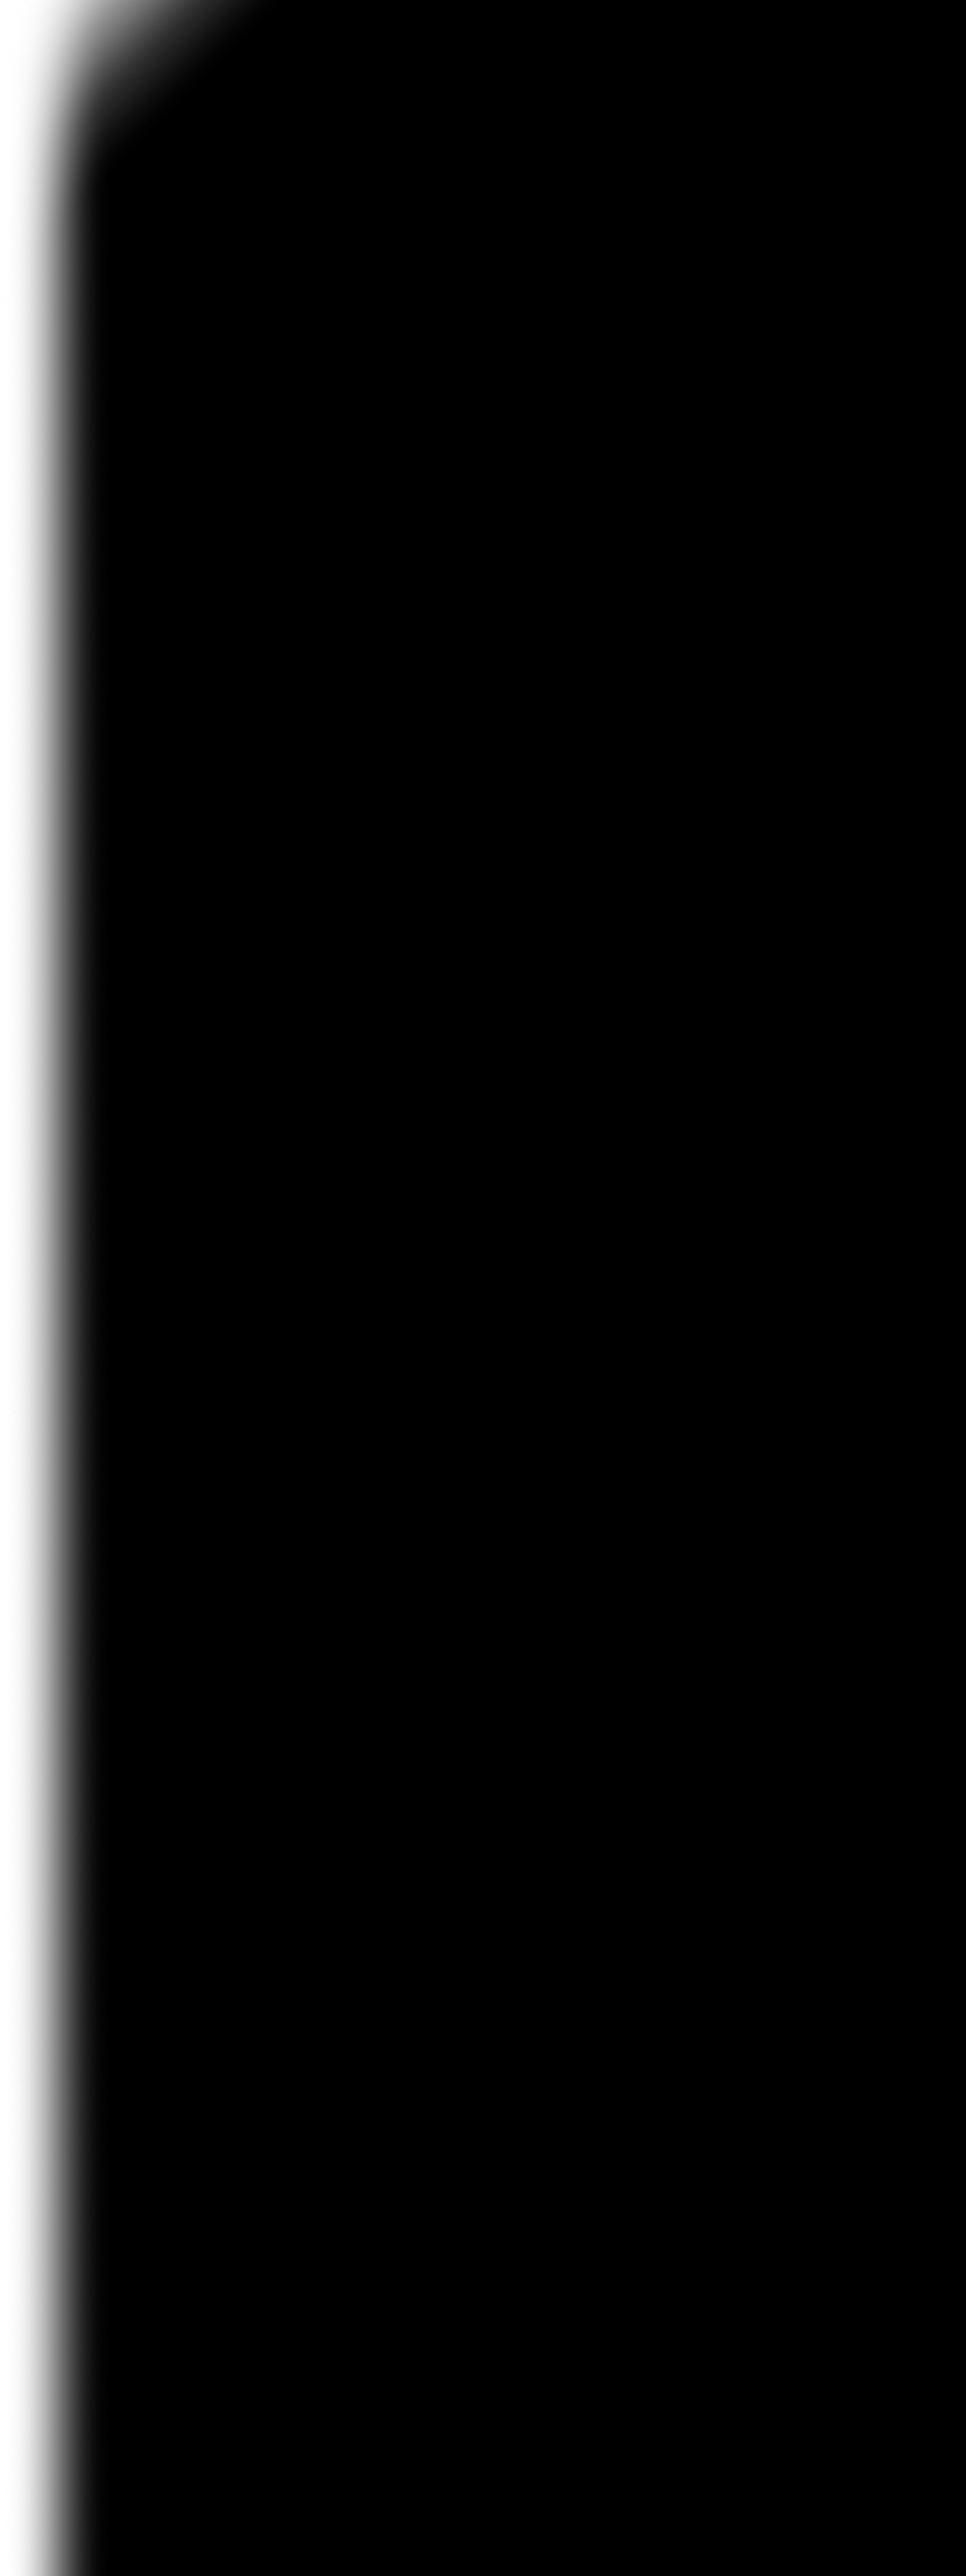
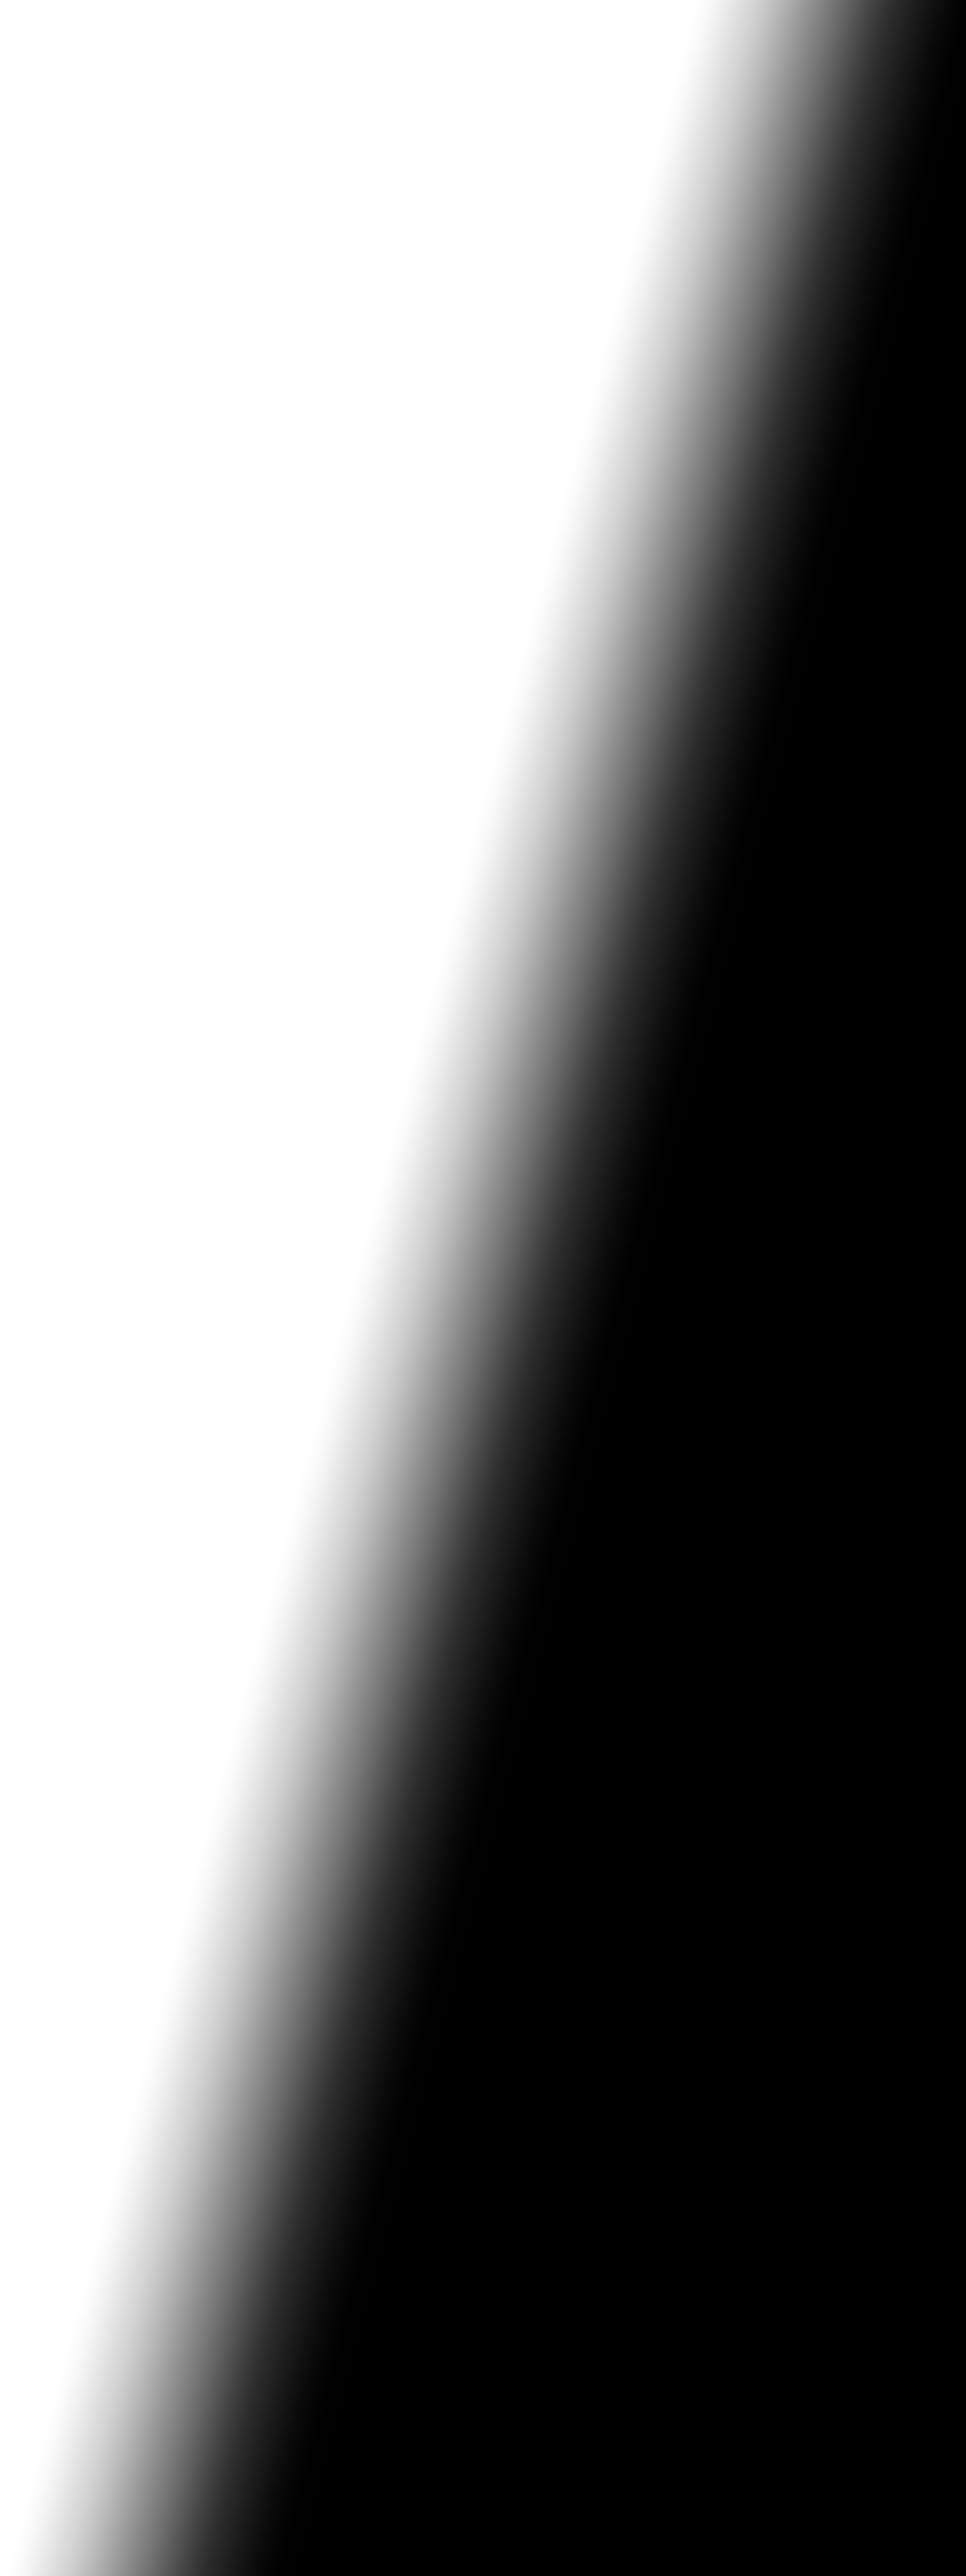
fade changes

diff --git a/app/globals.css b/app/globals.css
@@ -72,7 +72,7 @@
   --bar-label: var(--ink);
   --bar-strength: 1;
   --wave-unit: 1vw;
-  --wave-duration: 95s;
+  --wave-duration: 92s;
   --wave-delay: -4.787549407s;
   --serif: "Iowan Old Style", "Palatino Linotype", Palatino, Georgia, serif;
   --sans: -apple-system, BlinkMacSystemFont, "Segoe UI", Helvetica, Arial, sans-serif;
@@ -134,7 +134,7 @@ p, h1, h2, h3 { margin: 0; }
   :root[data-color-wave="ready"] .site-footer::before {
     /* One shared curve: a desktop 51vw center plus two 51vw fades, scaled on smaller screens.
        Each fade uses 64 intervals instead of coarse, rounded color stops. */
-    --wave-paint: linear-gradient(135deg in oklab,
+    --wave-paint: linear-gradient(105deg in oklab,
       var(--wave-base) calc(var(--wave-x) - var(--wave-origin, 0px) - 76.5 * var(--wave-unit)),
       color-mix(in oklab, var(--accent-surface) 0.003726%, var(--wave-base)) calc(var(--wave-x) - var(--wave-origin, 0px) - 75.703125 * var(--wave-unit)),
       color-mix(in oklab, var(--accent-surface) 0.029105%, var(--wave-base)) calc(var(--wave-x) - var(--wave-origin, 0px) - 74.90625 * var(--wave-unit)),
@@ -275,7 +275,7 @@ p, h1, h2, h3 { margin: 0; }
   @supports (background-clip: text) or (-webkit-background-clip: text) {
     :root[data-color-wave="ready"] :is(.disclosure-toggle .section-label, .site-footer p, .language-switch) {
       /* Inverse text switches at a contrast threshold, avoiding gray-on-gray. */
-      --inverse-paint: linear-gradient(135deg,
+      --inverse-paint: linear-gradient(105deg,
         var(--ink) calc(var(--wave-x) - var(--wave-origin) - 50.2 * var(--wave-unit)),
         var(--paper) 0 calc(var(--wave-x) - var(--wave-origin) + 50.2 * var(--wave-unit)),
         var(--ink) 0);
@@ -312,7 +312,7 @@ p, h1, h2, h3 { margin: 0; }
 .site-nav a:hover { color: var(--accent); text-decoration: underline; text-underline-offset: 9px; }
 .intro { padding: 96px 0 80px 192px; }
 .home-intro { position: relative; isolation: isolate; }
-.hero-art { position: absolute; top: 0; bottom: 0; right: -56px; width: 54%; pointer-events: none; clip-path: inset(0 4% 0 0); transform: translateY(-20px); mask-image: url("./masks/photo-desktop.png"); mask-size: 100% auto; mask-position: left top; mask-repeat: no-repeat; }
+.hero-art { --photo-fade-midpoint: .3954821253; position: absolute; top: 0; bottom: 0; right: -56px; width: 54%; pointer-events: none; clip-path: inset(0 4% 0 0); transform: translateY(-20px); mask-image: url("./masks/photo-desktop.png"); mask-size: 100% auto; mask-position: left bottom; mask-repeat: no-repeat; }
 .hero-photo { display: block; width: 100%; height: 100%; object-fit: cover; object-position: 52% 48%; filter: saturate(.9) contrast(.98); opacity: .86; }
 .hero-heading, .hero-content { position: relative; z-index: 1; max-width: 560px; }
 .eyebrow, .section-label { font-family: var(--sans); font-size: var(--type-small); font-weight: 500; line-height: 1.6; letter-spacing: 0; }
@@ -412,14 +412,14 @@ html:lang(zh) .news-story h3:not([lang="en"]) { line-height: 1.4; letter-spacing
 }
 /* Tablet widths, plus larger touch-first tablets in landscape. */
 @media screen and (min-width: 541px) and (max-width: 1099px), screen and (min-width: 1100px) and (max-width: 1400px) and (hover: none) and (pointer: coarse) {
-  html { --wave-unit: .9vw; --wave-duration: 89s; --wave-delay: -4.296487169s; }
+  html { --wave-unit: .9vw; --wave-duration: 86s; --wave-delay: -4.296487169s; }
   html { --header-height: 72px; --type-title: clamp(48px, 5.5vw, 64px); }
   .site-shell { width: calc(100% - clamp(64px, 8vw, 96px)); }
   .site-header, .editorial-section, .site-footer { margin-right: 0; }
   .intro { padding: 48px 0; }
   .home-intro { display: grid; grid-template-columns: minmax(0, 1fr) minmax(0, .85fr); gap: 32px; align-items: center; }
   .hero-heading { grid-column: 1; grid-row: 1; max-width: none; }
-  .hero-art { position: relative; grid-column: 2; grid-row: 1; inset: auto; right: calc(0px - clamp(32px, 4vw, 48px)); width: 100%; height: 340px; margin: 0; clip-path: none; transform: none; mask-image: url("./masks/photo-tablet.png"); mask-size: 100% auto; mask-repeat: no-repeat; }
+  .hero-art { --photo-fade-midpoint: .14; position: relative; grid-column: 2; grid-row: 1; inset: auto; right: calc(0px - clamp(32px, 4vw, 48px)); width: 100%; height: 340px; margin: 0; clip-path: none; transform: none; mask-image: url("./masks/photo-tablet.png"); mask-size: 100% auto; mask-repeat: no-repeat; }
   .hero-photo { object-position: 50% 46%; opacity: .9; }
   .hero-content { grid-column: 1 / -1; grid-row: 2; width: 100%; max-width: 688px; }
   .home-intro .intro-copy { max-width: none; margin-top: 0; }
@@ -439,7 +439,7 @@ html:lang(zh) .news-story h3:not([lang="en"]) { line-height: 1.4; letter-spacing
   .hero-art { height: 320px; }
 }
 @media (max-width: 540px) {
-  html { --wave-unit: .75vw; --wave-duration: 80s; --wave-delay: -3.562281723s; }
+  html { --wave-unit: .75vw; --wave-duration: 77s; --wave-delay: -3.562281723s; }
   .site-shell { width: calc(100% - 40px); }
   .site-header, .editorial-section, .site-footer { margin-right: 0; }
   html { --header-height: 64px; }
@@ -447,7 +447,7 @@ html:lang(zh) .news-story h3:not([lang="en"]) { line-height: 1.4; letter-spacing
   .site-nav { gap: 20px; }
   .intro { padding: 48px 0; }
   .home-intro { padding-top: 32px; padding-left: 0; }
-  .hero-art { position: relative; top: auto; bottom: auto; left: -20px; width: calc(100% + 40px); height: 280px; clip-path: none; margin-top: 24px; transform: none; mask-image: url("./masks/photo-desktop.png"), url("./masks/photo-mobile.png"); mask-size: 100% auto, 100% 100%; mask-composite: intersect; mask-repeat: no-repeat; }
+  .hero-art { --photo-fade-midpoint: none; position: relative; top: auto; bottom: auto; left: -20px; width: calc(100% + 40px); height: 280px; clip-path: none; margin-top: 24px; transform: none; mask-image: url("./masks/photo-mobile.png"); mask-size: 100% 100%; mask-repeat: no-repeat; }
   .hero-photo { object-position: 50% 46%; opacity: .9; }
   .hero-heading, .hero-content { max-width: none; }
   .home-intro .intro-copy { margin-top: 24px; }
@@ -479,3 +479,7 @@ html:lang(zh) .news-story h3:not([lang="en"]) { line-height: 1.4; letter-spacing
   .editorial-section.home-disclosure { --disclosure-bleed: 0px; }
   .home-disclosure .disclosure-panel { grid-template-rows: 1fr; visibility: visible; opacity: 1; }
 }
+
+/* Underline only the name, never its language-switch arrow. */
+.site-shell a.wordmark:is(:hover, :focus-visible) { text-decoration-line: none; }
+.site-shell a.wordmark:is(:hover, :focus-visible) .link-label { text-decoration-line: underline; text-decoration-thickness: 1px; text-underline-offset: 5px; }

diff --git a/app/site-color-wave.tsx b/app/site-color-wave.tsx
@@ -4,12 +4,16 @@ import { useEffect } from "react";
 
 export function SiteColorWave({ pageKey }: { pageKey: string }) {
   useEffect(() => {
-    if (!("registerProperty" in CSS) || !CSS.supports("background", "linear-gradient(135deg in oklab, black, white)")) return;
+    if (!("registerProperty" in CSS) || !CSS.supports("background", "linear-gradient(105deg in oklab, black, white)")) return;
     const root = document.documentElement;
     const footer = document.querySelector<HTMLElement>(".site-footer");
     if (!footer) return;
     const surfaces = document.querySelectorAll<HTMLElement>(".disclosure-toggle, .site-footer");
     const labels = document.querySelectorAll<HTMLElement>(".disclosure-toggle .section-label, .site-footer p, .language-switch");
+    const photo = document.querySelector<HTMLElement>(".hero-art");
+    // Normal to a 75-degree boundary in the first quadrant (CSS 105deg).
+    const horizontal = Math.cos(15 * Math.PI / 180);
+    const vertical = Math.sin(15 * Math.PI / 180);
     let previousWidth = 0;
     const align = () => {
       // Treat only painted surfaces as one continuous strip. Expanded content
@@ -19,24 +23,36 @@ export function SiteColorWave({ pageKey }: { pageKey: string }) {
         const rect = surface.getBoundingClientRect();
         const top = paintedHeight;
         // Footer paint bleeds to the viewport edge, one pixel over its divider.
-        const origin = surface === footer ? top - 1 : rect.left + top;
-        surface.style.setProperty("--wave-origin", `${origin / Math.SQRT2}px`);
+        const origin = surface === footer ? (top - 1) * vertical : rect.left * horizontal + top * vertical;
+        surface.style.setProperty("--wave-origin", `${origin}px`);
         labels.forEach((label) => {
           if (!surface.contains(label)) return;
           const labelRect = label.getBoundingClientRect();
-          label.style.setProperty("--wave-origin", `${(labelRect.left + top + labelRect.top - rect.top) / Math.SQRT2}px`);
+          label.style.setProperty("--wave-origin", `${labelRect.left * horizontal + (top + labelRect.top - rect.top) * vertical}px`);
         });
         paintedHeight += rect.height;
       });
-      const travel = (root.clientWidth + paintedHeight) / Math.SQRT2;
+      const travel = root.clientWidth * horizontal + paintedHeight * vertical;
       root.style.setProperty("--wave-travel", `${travel}px`);
       root.style.setProperty("--wave-width", `${root.clientWidth}px`);
-      // Enter one-quarter into the leading fade at every responsive width.
+      // Join the photo's midpoint to the rising half of the opening wave.
+      // Ignore intervening prose on stacked layouts; it has no painted surface.
       if (previousWidth !== root.clientWidth) {
         const style = getComputedStyle(root);
         const unit = parseFloat(style.getPropertyValue("--wave-unit")) * window.innerWidth / 100;
         const duration = parseFloat(style.getPropertyValue("--wave-duration"));
-        root.style.setProperty("--wave-delay", `${-duration * 12.75 * unit / (travel + 153 * unit)}s`);
+        let center = -63.75 * unit;
+        if (photo) {
+          const rect = photo.getBoundingClientRect();
+          const midpoint = parseFloat(getComputedStyle(photo).getPropertyValue("--photo-fade-midpoint"));
+          // Mobile has only top/bottom photo fades, so retain its normal entry phase.
+          if (Number.isFinite(midpoint)) {
+            const anchor = (rect.left + midpoint * rect.width) * horizontal;
+            center = anchor + 51 * unit;
+          }
+        }
+        const phase = Math.max(0, Math.min(1, (center + 76.5 * unit) / (travel + 153 * unit)));
+        root.style.setProperty("--wave-delay", `${-duration * phase}s`);
         previousWidth = root.clientWidth;
       }
     };
